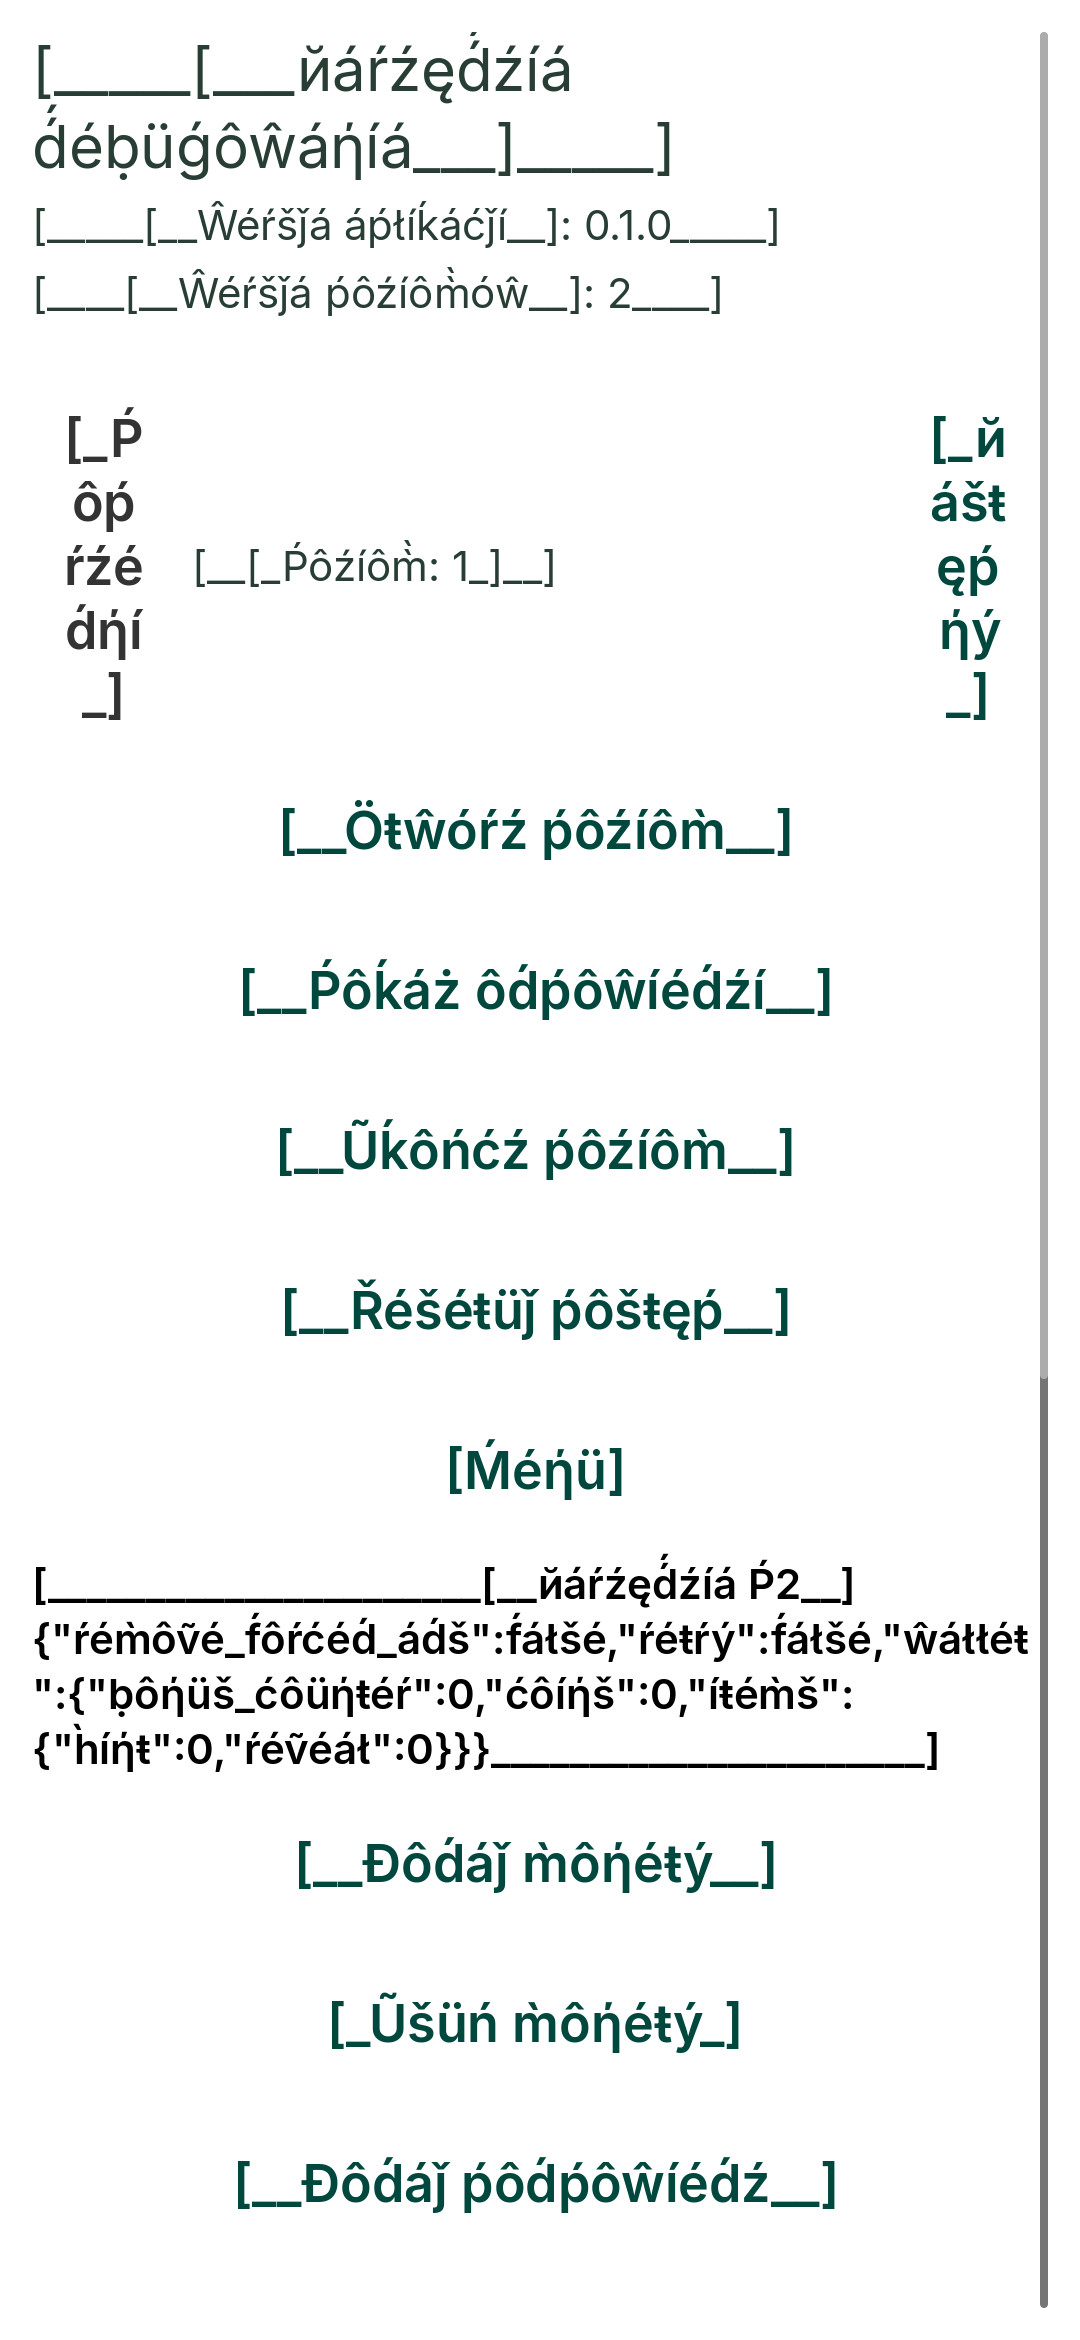
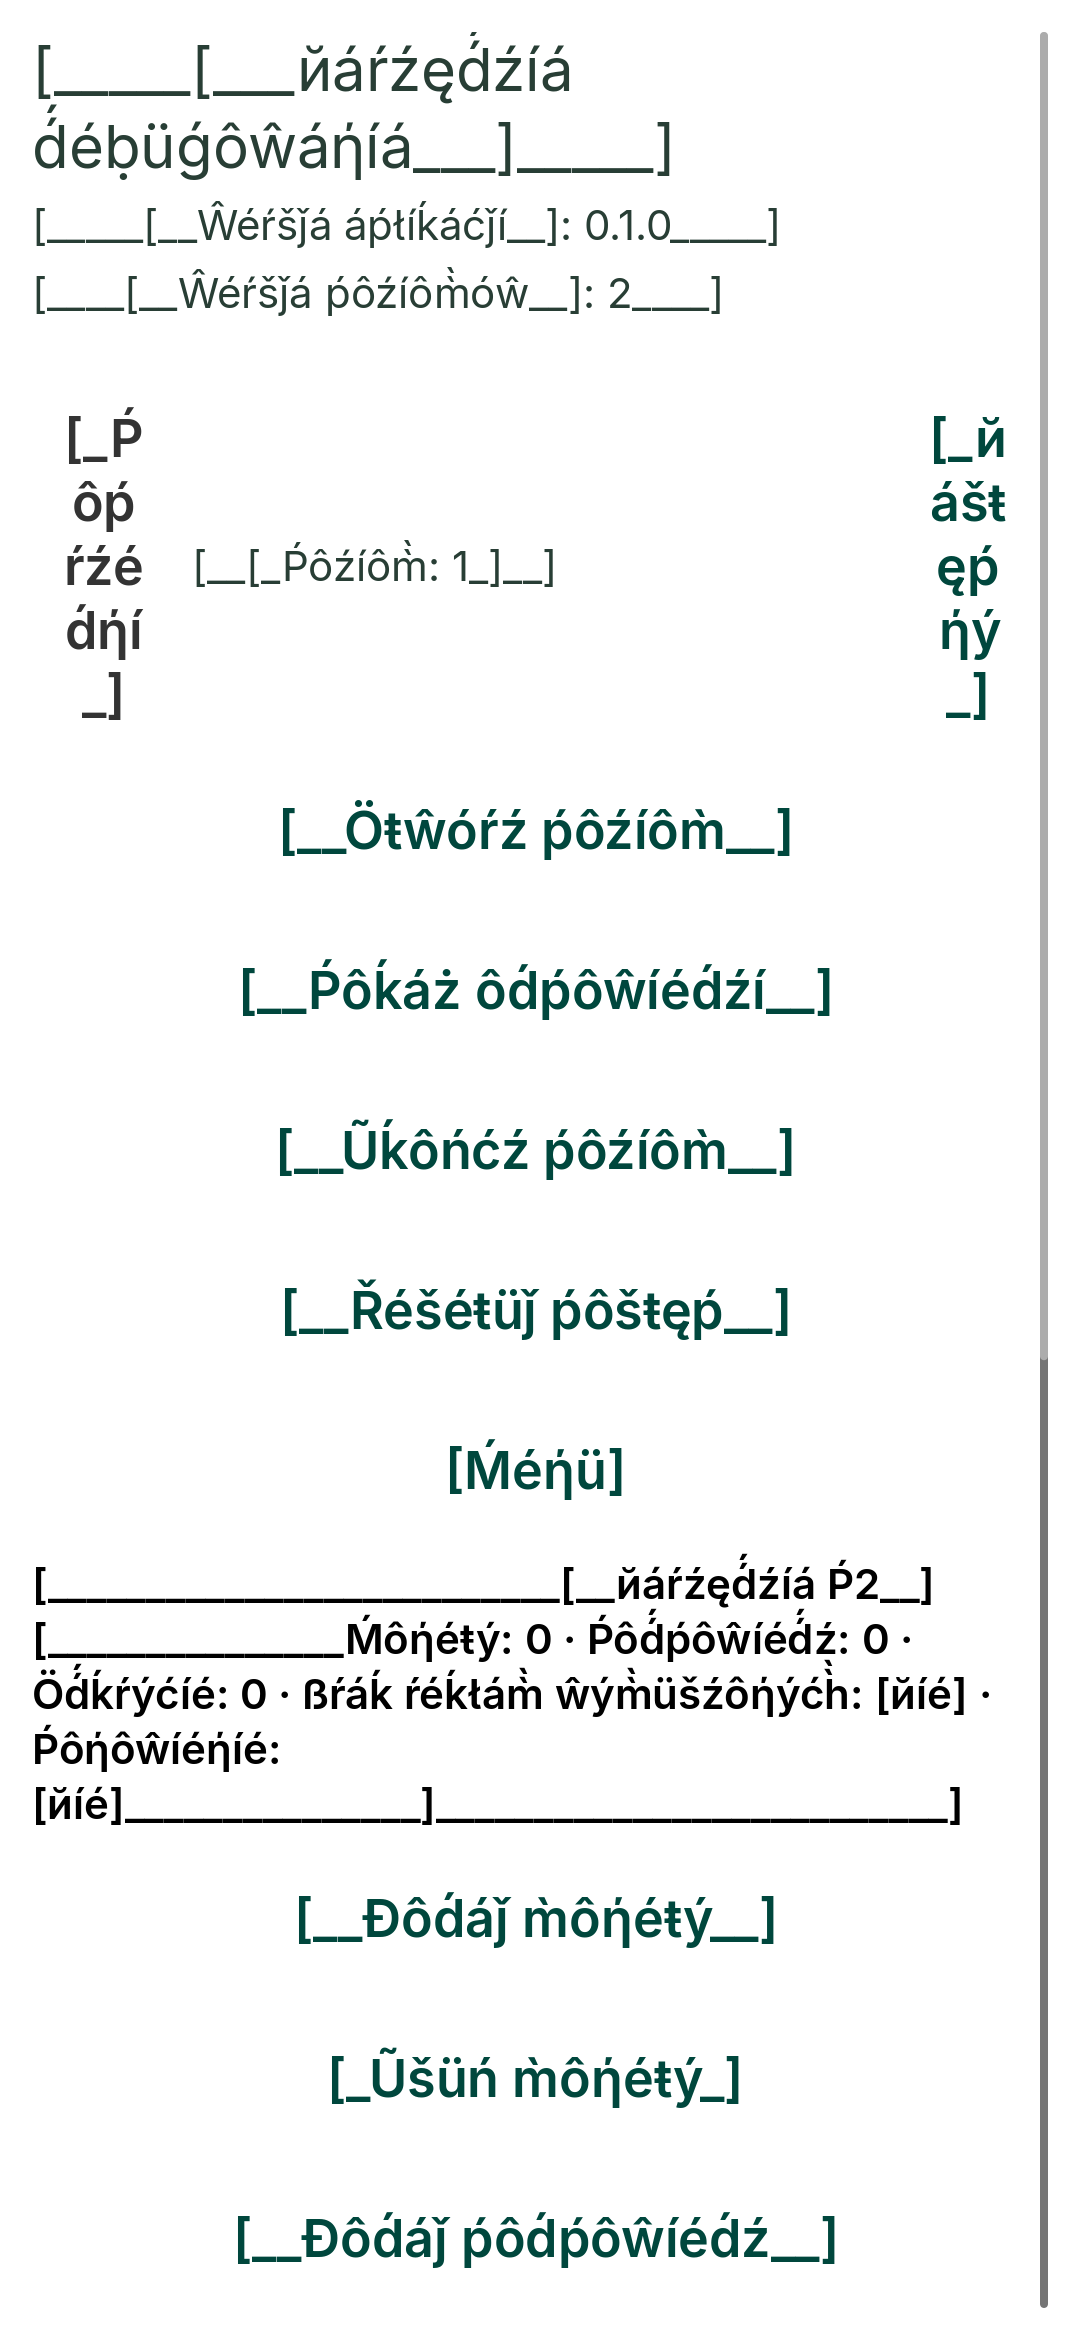
fix(debug): translate wallet status and guard unready owners [T-0294]

Changed region(s): [[0.0306, 0.6551, 0.9472, 0.9671]]

diff --git a/tasks/T-0294-debug-p2a.md b/tasks/T-0294-debug-p2a.md
@@ -32,7 +32,7 @@ Expose FR-DEBUG-03 in debug builds using the injected durable wallet and current
 ## Context
 - PRODUCT.md FR-DEBUG-03/06: grant/remove coins/items, toggle Remove Forced Ads, fake fill/no-fill/cancel/pending/crash-before-finish; developer code excluded from Release.
 - ARCHITECTURE.md: only services call platform adapters; every balance change goes through Economy.
-- DESIGN.md#rules-quote-these-into-ui-tasks: catalog components, tokens and translated copy only.
+- docs/DESIGN.md#rules-quote-these-into-ui-tasks: catalog components, tokens and translated copy only.
 
 ## Current state
 - Debug screen configure(save,content,nav) injects owners before mount, and existing controls have fixed paths used by regression tests.
